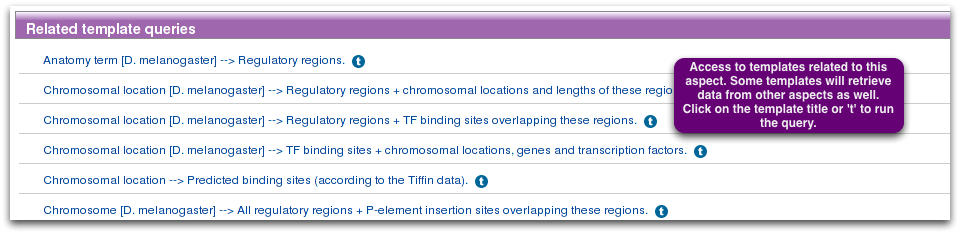
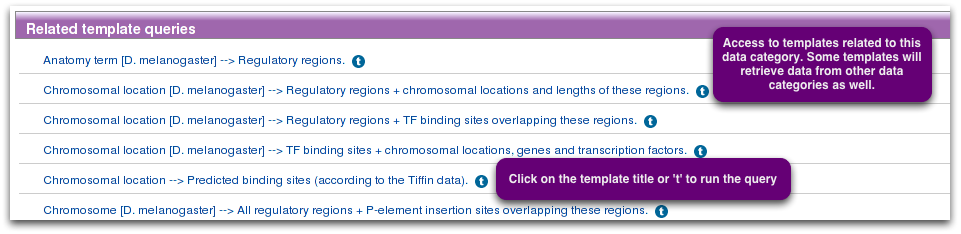
updates to help pages

Changed region(s): [[0.6868, 0.0897, 0.999, 0.6282], [0.4995, 0.6581, 0.8429, 0.8974]]

diff --git a/www/flymine/site/whatcanidoonthispage/whatcanido.html b/www/flymine/site/whatcanidoonthispage/whatcanido.html
@@ -14,7 +14,6 @@
 <ul class="tabset_tabs">
    <li><a href="#basics" class="active">The basics</a></li>
    <li><a href="#searching">Searching Templates</a></li>
-   <li><a href="#running">Running Templates</a></li>
 
 </ul>
 
@@ -34,29 +33,13 @@ minutes - so if you have a suggestion, let us know.</p>
 
 <p> You can search templates by keywords (eg gene, orthologue, FlyAtlas). By default, templates from all data categories will be searched. Optionally, you can restrict your search to a certain data type. If you are logged in, public templates as well as your own templates will be searched, by default.</p>
 
-<img alt="[Templates]"  src="templates_search2.png"/>
+<img alt="[Templates]"  src="templates_search.png"/>
 
 <p> In the example below, only 'My templates' will be searched (not the public ones), and only templates that I have marked as 'My Favourites'. </p>
 
 <img alt="[Templates]"  src="templates_filter.png"/>
 
 </div>
-
-
-<div id="running" class="tabset_content"><h2 class="tabset_label">Running Templates</h2>
-
-<p> Templates provide a simple form to an underlying predefined query in which one or more variables need to be specified. As an example the template Gene + Transcription factor --> Gene + binding sites + transcription factor is shown below.</p>
-
-<img alt="[Templates]"  src="templates_run.png"/>
-
-
-</div>
-
-
-
-
-
-
 
 
 <h1 id="bag">Lists</h1>
@@ -73,10 +56,10 @@ minutes - so if you have a suggestion, let us know.</p>
 
 <p>FlyMine can operate on lists of data.  Lists can then be analysed
 on a list analysis page, or can be used in (template) queries. The
-Upload page allows you to create a list from an external source. The
-list can contain a mix of identifier types (eg symbols, names,
-organism database id,) but it cannot contain different object types
-(eg a list of genes and proteins is currently not possible).</p>
+Upload page allows you to create a list. The list can contain a mix of
+identifier types (eg symbols, names, organism database id,) but it
+cannot contain different object types (eg a list of genes and proteins
+is currently not possible).</p>
 
 <p>To create a list, follow these steps:</p> 
 
@@ -105,12 +88,19 @@ on a List name will show the List analysis page for this list. We can
 add new public lists at any time - it only takes a few minutes - so if
 you have a suggestion, let us know.</p>
 
-<img alt="[Lists]"  src="xxxx.png"/>
+<img alt="[Lists]"  src="lists_view.png"/>
 
 <p>You can merge, subtract and find common members if you
 have more than one list.</p>
 
-<img alt="[Lists]"  src="xxxx.png"/>
+
+<p><i>As an example, an interszection of 2 lists is shown:</i></p>
+
+
+<img alt="[Lists]"  src="lists_view_intersect.png"/>
+
+
+
 
 </div>
 
@@ -135,6 +125,16 @@ have more than one list.</p>
 
 <div id="basics" class="tabset_content"><h2 class="tabset_label">The basics</h2>
 
+<p> The data page gives an overview of all the data in FlyMine as well
+as their source. To have a better overview, FlyMine groups data
+together in 'data categories'. The icons (or their title) will bring
+you to the corresponding data category page, where you can run a
+predefined template query, build your own query (see below), and have
+access to bulk download. Certain template queries, as well as the
+QueryBuilder itself, allow you to perform searches that span more than
+one data category.</p>
+
+
 </div>
 
 
@@ -151,7 +151,7 @@ have more than one list.</p>
 
 
 
-<h1 id="aspect">Aspect Page</h1>
+<h1 id="aspect">Data Category Page</h1>
 
 <ul class="tabset_tabs">
    <li><a href="#basics" class="active">The basics</a></li>
@@ -161,12 +161,12 @@ have more than one list.</p>
 
 
 <p>The FlyMine website presents the principle data types grouped
-together as different 'aspects', such as protein interactions or gene
+together as different 'data categories', such as protein interactions or gene
 expression.</p>
 
-<p><i>As an example, the transcriptional regulation aspect is shown.</i></p>
+<p><i>As an example, 'the transcriptional regulation' category is shown.</i></p>
 
-<p> Each aspect page lists:</p>
+<p> Each data category page lists:</p>
 
     <p>1. <b>Current data</b> - background information on the origin of particular source datasets</p>
     <p>2. <b>Bulk download</b> - access to convenient derivative bulk datasets for browsing or export in standard format:</p>
@@ -202,9 +202,8 @@ for sequence features.</p>
 
 <p>All report pages have the same basic structure: The top part
 provides <b>summary information</b> for every object, whereas the lower part,
-<b>Other details by aspect</b> has more detailed information divided into
-aspects. The aspects correspond to categories of data shown on the
-FlyMine homepage.</p>
+<b>Further Information by category</b> has more detailed information
+divided into different data types or categories</p>
 
 <p><i>As an example the report page for the </i>even-skipped<i> gene is shown.</i></p>
 
